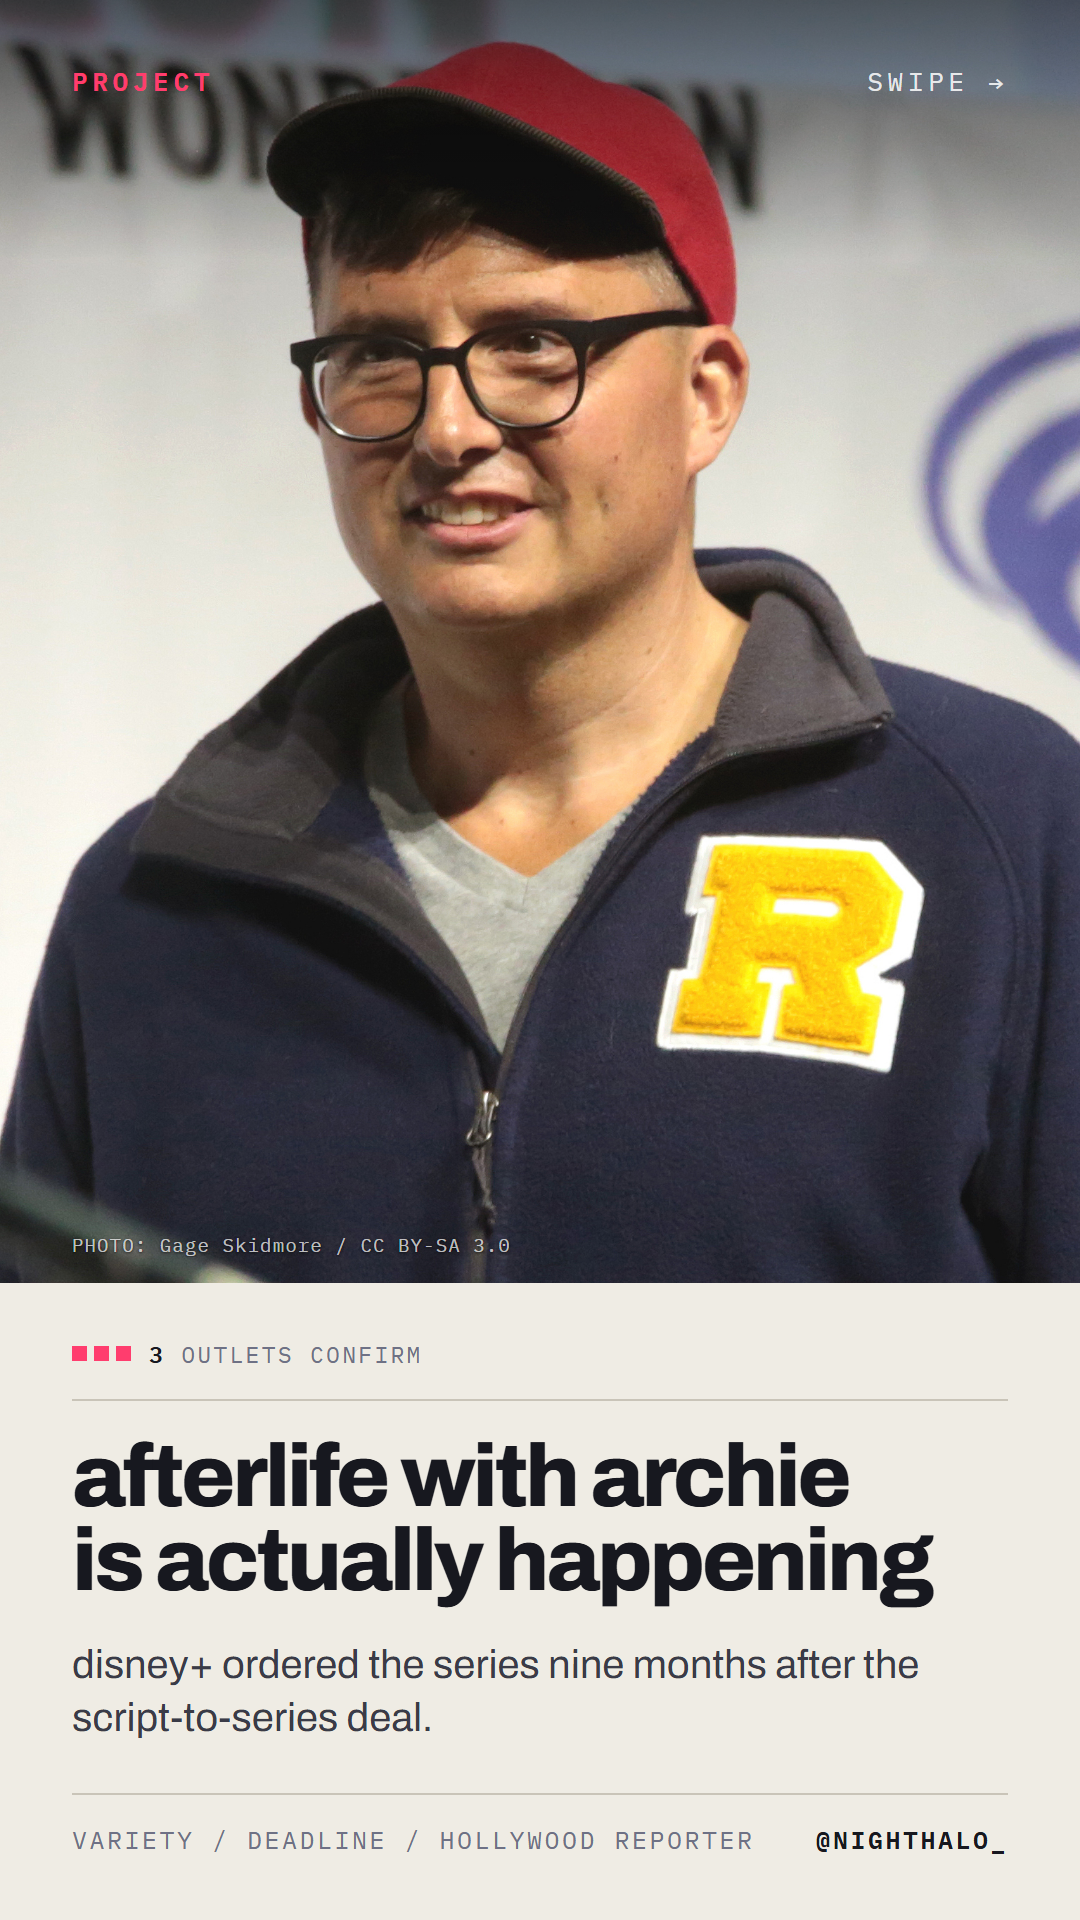
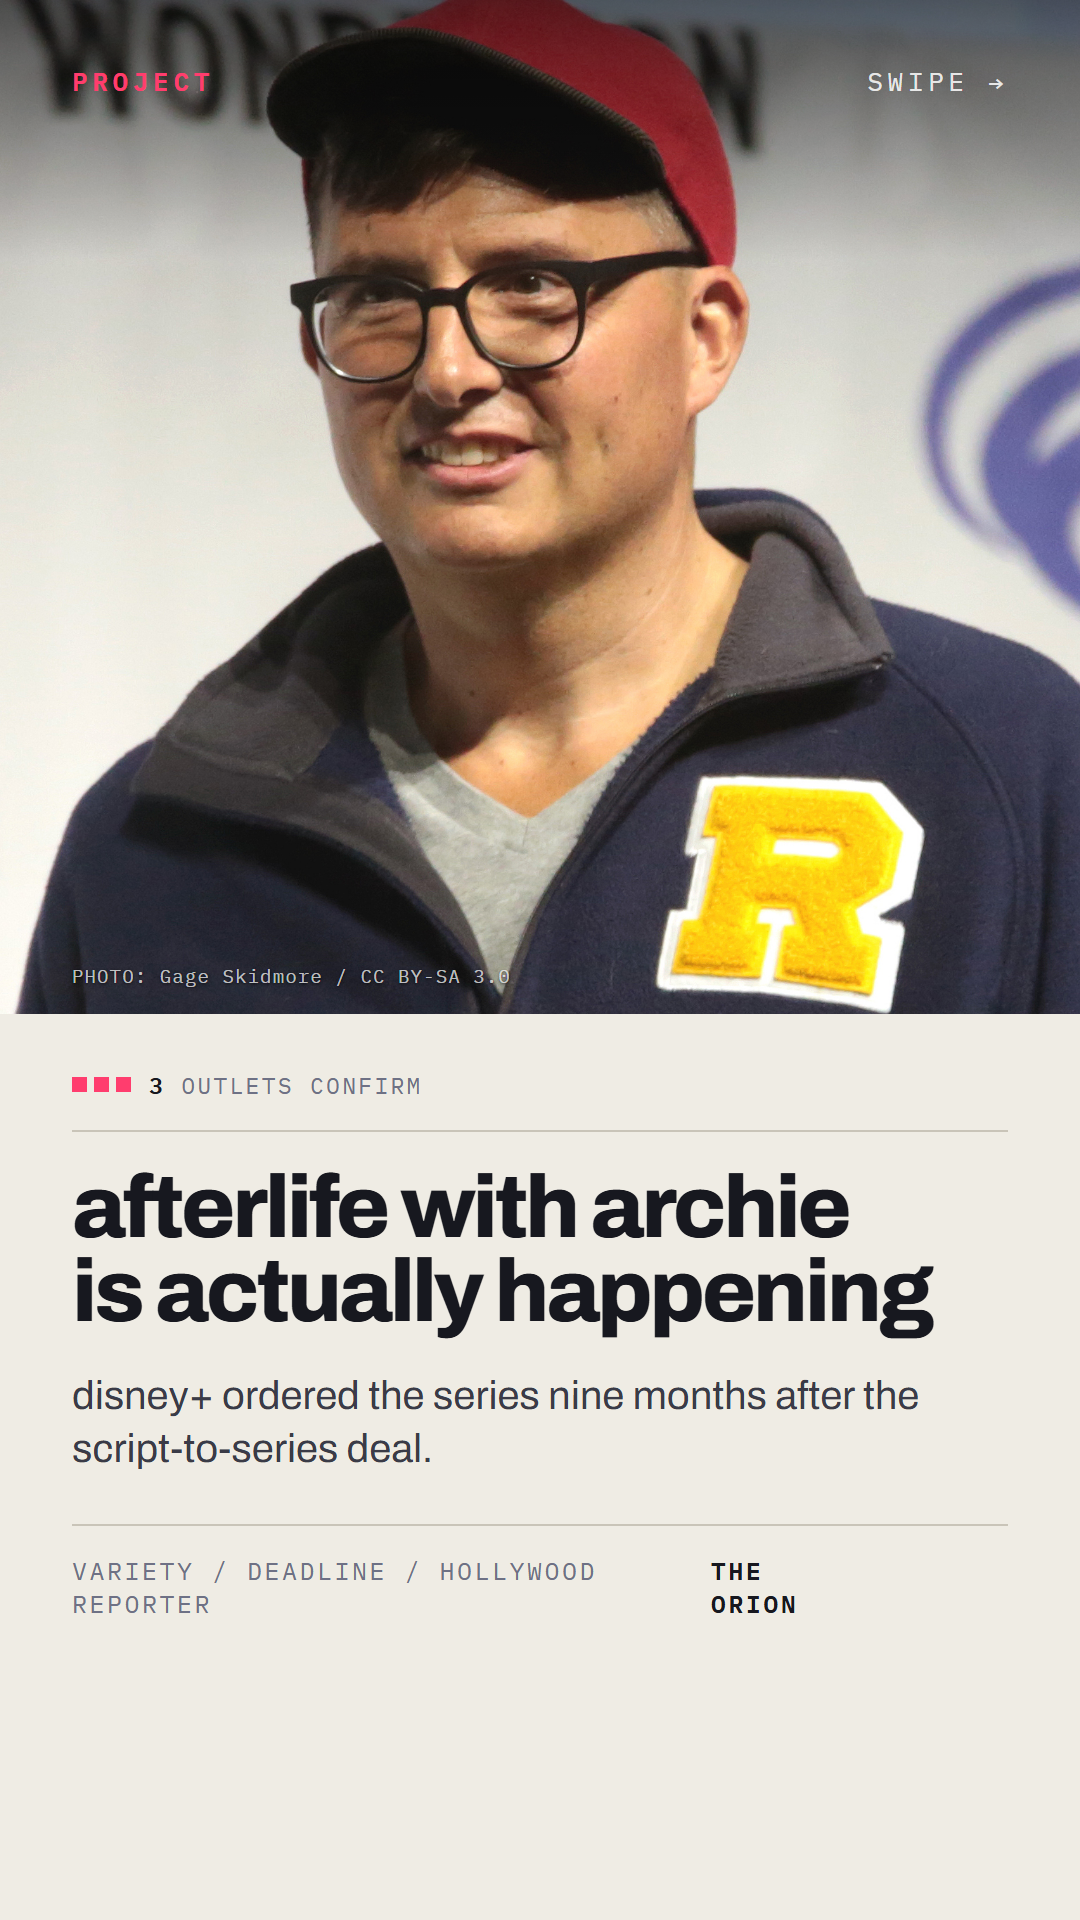
gallery

diff --git a/src/gallery.js b/src/gallery.js
@@ -1,0 +1,151 @@
+// gallery.js — builds docs/index.html listing every rendered card.
+//
+//   node src/gallery.js
+//
+// Open https://media.nighthalospace.online/ on your phone to see them all,
+// grouped into pairs, ready to save.
+
+const fs = require('node:fs');
+const path = require('node:path');
+
+const ROOT = path.join(__dirname, '..');
+const DOCS = path.join(ROOT, 'docs');
+const CARDS_FILE = path.join(ROOT, 'cards', 'pending.json');
+const POSTED_FILE = path.join(ROOT, 'data', 'posted.json');
+
+function readJson(file, fallback) {
+  try {
+    return JSON.parse(fs.readFileSync(file, 'utf8'));
+  } catch {
+    return fallback;
+  }
+}
+
+// Build a lookup of story_id -> headline, from both current and past batches.
+function headlines() {
+  const map = {};
+  for (const c of readJson(CARDS_FILE, [])) {
+    if (c.story_id && c.headline) map[c.story_id] = c.headline;
+  }
+  for (const p of readJson(POSTED_FILE, [])) {
+    if (p.story_id && p.headline && !map[p.story_id]) map[p.story_id] = p.headline;
+  }
+  return map;
+}
+
+function esc(s) {
+  return String(s).replace(/[&<>"]/g, (c) => ({ '&': '&amp;', '<': '&lt;', '>': '&gt;', '"': '&quot;' }[c]));
+}
+
+function main() {
+  if (!fs.existsSync(DOCS)) {
+    console.error('No docs/ folder — run the render step first.');
+    process.exit(1);
+  }
+
+  const titles = headlines();
+
+  // Group PNGs by story id. "story_41b1c9-2.png" -> id "story_41b1c9", slide 2.
+  const groups = {};
+
+  for (const file of fs.readdirSync(DOCS)) {
+    const m = file.match(/^(.+)-(\d+)\.png$/i);
+    if (!m) continue;
+
+    const [, id, slide] = m;
+    const stat = fs.statSync(path.join(DOCS, file));
+    groups[id] = groups[id] || { id, slides: [], mtime: 0 };
+    groups[id].slides.push({ file, slide: Number(slide) });
+    groups[id].mtime = Math.max(groups[id].mtime, stat.mtimeMs);
+  }
+
+  const sets = Object.values(groups).sort((a, b) => b.mtime - a.mtime);
+  for (const s of sets) s.slides.sort((a, b) => a.slide - b.slide);
+
+  const body = sets.length
+    ? sets
+        .map((set) => {
+          const when = new Date(set.mtime).toISOString().slice(0, 10);
+          const title = titles[set.id] || set.id;
+          const shots = set.slides
+            .map(
+              (s) => `
+        <a class="shot" href="${esc(s.file)}" target="_blank" rel="noopener">
+          <img src="${esc(s.file)}" alt="slide ${s.slide}" loading="lazy">
+          <span class="n">${s.slide}</span>
+        </a>`
+            )
+            .join('');
+
+          return `
+    <section class="set">
+      <h2>${esc(title)}</h2>
+      <p class="meta">${esc(set.id)} &middot; ${when} &middot; ${set.slides.length} slides</p>
+      <div class="shots">${shots}</div>
+    </section>`;
+        })
+        .join('')
+    : '<p class="empty">No cards rendered yet. Run <code>npm run cards</code>.</p>';
+
+  const html = `<!DOCTYPE html>
+<html lang="en">
+<head>
+<meta charset="utf-8">
+<meta name="viewport" content="width=device-width, initial-scale=1">
+<meta name="robots" content="noindex">
+<title>The Orion — cards</title>
+<link href="https://fonts.googleapis.com/css2?family=Archivo:wght@400;600;800&family=IBM+Plex+Mono:wght@400&display=swap" rel="stylesheet">
+<style>
+  :root { --ink:#17181F; --bone:#EFECE4; --signal:#FF3D6E; --muted:#6E7185; }
+  * { margin:0; padding:0; box-sizing:border-box; }
+  body {
+    background: var(--ink); color: var(--bone);
+    font-family:'Archivo',system-ui,sans-serif;
+    padding: 28px 20px 80px; max-width: 900px; margin: 0 auto;
+  }
+  header { border-bottom:2px solid #2C2E3A; padding-bottom:18px; margin-bottom:8px; }
+  h1 { font-size:26px; font-weight:800; letter-spacing:-.02em; }
+  header p {
+    font-family:'IBM Plex Mono',monospace; font-size:12px; letter-spacing:.14em;
+    text-transform:uppercase; color:var(--muted); margin-top:6px;
+  }
+  .set { padding:30px 0; border-bottom:1px solid #24262F; }
+  h2 { font-size:21px; font-weight:800; letter-spacing:-.02em; text-transform:lowercase; line-height:1.15; }
+  .meta {
+    font-family:'IBM Plex Mono',monospace; font-size:11px; letter-spacing:.1em;
+    text-transform:uppercase; color:var(--muted); margin:8px 0 16px;
+  }
+  .shots { display:flex; gap:12px; flex-wrap:wrap; }
+  .shot { position:relative; flex:1 1 140px; max-width:200px; text-decoration:none; }
+  .shot img { width:100%; display:block; border-radius:3px; background:#24262F; }
+  .n {
+    position:absolute; top:8px; left:8px;
+    font-family:'IBM Plex Mono',monospace; font-size:11px; font-weight:600;
+    background:var(--signal); color:#fff; padding:2px 7px; border-radius:2px;
+  }
+  .empty { color:var(--muted); padding:40px 0; }
+  code { font-family:'IBM Plex Mono',monospace; background:#24262F; padding:2px 6px; border-radius:3px; }
+  footer {
+    margin-top:36px; font-family:'IBM Plex Mono',monospace; font-size:11px;
+    letter-spacing:.1em; text-transform:uppercase; color:var(--muted); line-height:1.9;
+  }
+</style>
+</head>
+<body>
+  <header>
+    <h1>The Orion — cards</h1>
+    <p>${sets.length} sets &middot; built ${new Date().toISOString().slice(0, 16).replace('T', ' ')}Z</p>
+  </header>
+${body}
+  <footer>
+    Tap a slide to open it full size, then press and hold to save.<br>
+    Post slide 1 first, slide 2 second.
+  </footer>
+</body>
+</html>`;
+
+  fs.writeFileSync(path.join(DOCS, 'index.html'), html);
+  console.log(`Wrote docs/index.html — ${sets.length} card sets listed.`);
+}
+
+main();

diff --git a/docs/index.html b/docs/index.html
@@ -1,1 +1,95 @@
-hello
+<!DOCTYPE html>
+<html lang="en">
+<head>
+<meta charset="utf-8">
+<meta name="viewport" content="width=device-width, initial-scale=1">
+<meta name="robots" content="noindex">
+<title>The Orion — cards</title>
+<link href="https://fonts.googleapis.com/css2?family=Archivo:wght@400;600;800&family=IBM+Plex+Mono:wght@400&display=swap" rel="stylesheet">
+<style>
+  :root { --ink:#17181F; --bone:#EFECE4; --signal:#FF3D6E; --muted:#6E7185; }
+  * { margin:0; padding:0; box-sizing:border-box; }
+  body {
+    background: var(--ink); color: var(--bone);
+    font-family:'Archivo',system-ui,sans-serif;
+    padding: 28px 20px 80px; max-width: 900px; margin: 0 auto;
+  }
+  header { border-bottom:2px solid #2C2E3A; padding-bottom:18px; margin-bottom:8px; }
+  h1 { font-size:26px; font-weight:800; letter-spacing:-.02em; }
+  header p {
+    font-family:'IBM Plex Mono',monospace; font-size:12px; letter-spacing:.14em;
+    text-transform:uppercase; color:var(--muted); margin-top:6px;
+  }
+  .set { padding:30px 0; border-bottom:1px solid #24262F; }
+  h2 { font-size:21px; font-weight:800; letter-spacing:-.02em; text-transform:lowercase; line-height:1.15; }
+  .meta {
+    font-family:'IBM Plex Mono',monospace; font-size:11px; letter-spacing:.1em;
+    text-transform:uppercase; color:var(--muted); margin:8px 0 16px;
+  }
+  .shots { display:flex; gap:12px; flex-wrap:wrap; }
+  .shot { position:relative; flex:1 1 140px; max-width:200px; text-decoration:none; }
+  .shot img { width:100%; display:block; border-radius:3px; background:#24262F; }
+  .n {
+    position:absolute; top:8px; left:8px;
+    font-family:'IBM Plex Mono',monospace; font-size:11px; font-weight:600;
+    background:var(--signal); color:#fff; padding:2px 7px; border-radius:2px;
+  }
+  .empty { color:var(--muted); padding:40px 0; }
+  code { font-family:'IBM Plex Mono',monospace; background:#24262F; padding:2px 6px; border-radius:3px; }
+  footer {
+    margin-top:36px; font-family:'IBM Plex Mono',monospace; font-size:11px;
+    letter-spacing:.1em; text-transform:uppercase; color:var(--muted); line-height:1.9;
+  }
+</style>
+</head>
+<body>
+  <header>
+    <h1>The Orion — cards</h1>
+    <p>3 sets &middot; built 2026-07-20 17:47Z</p>
+  </header>
+
+    <section class="set">
+      <h2>dwayne wayne is back, minus the shades</h2>
+      <p class="meta">story_4c68b2 &middot; 2026-07-20 &middot; 2 slides</p>
+      <div class="shots">
+        <a class="shot" href="story_4c68b2-1.png" target="_blank" rel="noopener">
+          <img src="story_4c68b2-1.png" alt="slide 1" loading="lazy">
+          <span class="n">1</span>
+        </a>
+        <a class="shot" href="story_4c68b2-2.png" target="_blank" rel="noopener">
+          <img src="story_4c68b2-2.png" alt="slide 2" loading="lazy">
+          <span class="n">2</span>
+        </a></div>
+    </section>
+    <section class="set">
+      <h2>lewis pullman joins julia garner at apple</h2>
+      <p class="meta">story_3ed33a &middot; 2026-07-20 &middot; 2 slides</p>
+      <div class="shots">
+        <a class="shot" href="story_3ed33a-1.png" target="_blank" rel="noopener">
+          <img src="story_3ed33a-1.png" alt="slide 1" loading="lazy">
+          <span class="n">1</span>
+        </a>
+        <a class="shot" href="story_3ed33a-2.png" target="_blank" rel="noopener">
+          <img src="story_3ed33a-2.png" alt="slide 2" loading="lazy">
+          <span class="n">2</span>
+        </a></div>
+    </section>
+    <section class="set">
+      <h2>afterlife with archie is actually happening</h2>
+      <p class="meta">story_41b1c9 &middot; 2026-07-20 &middot; 2 slides</p>
+      <div class="shots">
+        <a class="shot" href="story_41b1c9-1.png" target="_blank" rel="noopener">
+          <img src="story_41b1c9-1.png" alt="slide 1" loading="lazy">
+          <span class="n">1</span>
+        </a>
+        <a class="shot" href="story_41b1c9-2.png" target="_blank" rel="noopener">
+          <img src="story_41b1c9-2.png" alt="slide 2" loading="lazy">
+          <span class="n">2</span>
+        </a></div>
+    </section>
+  <footer>
+    Tap a slide to open it full size, then press and hold to save.<br>
+    Post slide 1 first, slide 2 second.
+  </footer>
+</body>
+</html>

diff --git a/templates/card.html b/templates/card.html
@@ -83,7 +83,9 @@
     flex: 0 0 auto;
     background: var(--bone);
     color: var(--ink);
-    padding: 56px 72px 64px;
+    /* bottom padding is a safe zone: TikTok's caption and username sit over
+       roughly the lowest 300px of a 1920px-tall post */
+    padding: 56px 72px 300px;
   }
   .card.back .slab { background: var(--ink); color: var(--bone); }
 
@@ -134,9 +136,10 @@
 
   /* when no free photo exists, don't leave a huge empty block — collapse the
      photo area to a band and let the type fill the card instead */
-  .card.noimage .photo { flex: 0 0 300px; }
+  .card.noimage .photo { flex: 0 0 196px; }
+  .card.noimage .photo::after { display: none; }
   .card.noimage .slab { flex: 1 1 auto; display: flex; flex-direction: column; }
-  .card.noimage .slab #content { flex: 1 1 auto; display: flex; flex-direction: column; justify-content: center; }
+  .card.noimage .slab #content { flex: 1 1 auto; padding-top: 18px; }
   .card.noimage .headline    { font-size: 132px; }
   .card.noimage .headline.s1 { font-size: 112px; }
   .card.noimage .headline.s2 { font-size: 94px; }
@@ -192,6 +195,8 @@
   .foot {
     margin-top: 48px;
     padding-top: 28px;
+    /* right safe zone: the action buttons rail overlays this edge */
+    padding-right: 150px;
     border-top: 2px solid var(--rule);
     display: flex;
     justify-content: space-between;
@@ -226,7 +231,7 @@
     <div id="content"></div>
     <div class="foot">
       <span id="sources">VARIETY / DEADLINE / THR</span>
-      <span class="handle" id="handle">@NIGHTHALO_</span>
+      <span class="handle" id="handle">The Orion</span>
     </div>
   </div>
 </div>
@@ -270,7 +275,7 @@
       .map(o => o.replace(/^The\s+/i, '').toUpperCase())
       .join(' / ');
 
-    document.getElementById('handle').textContent = (d.handle || '@nighthalo_').toUpperCase();
+    document.getElementById('handle').textContent = d.handle || 'The Orion';
 
     // body content
     const c = document.getElementById('content');
@@ -307,7 +312,7 @@
     quote: null,
     source: 'Variety, Deadline, The Hollywood Reporter',
     posted_at_label: '20 jul',
-    handle: '@nighthalo_'
+    handle: 'The Orion'
   };
 
   if (raw) {
